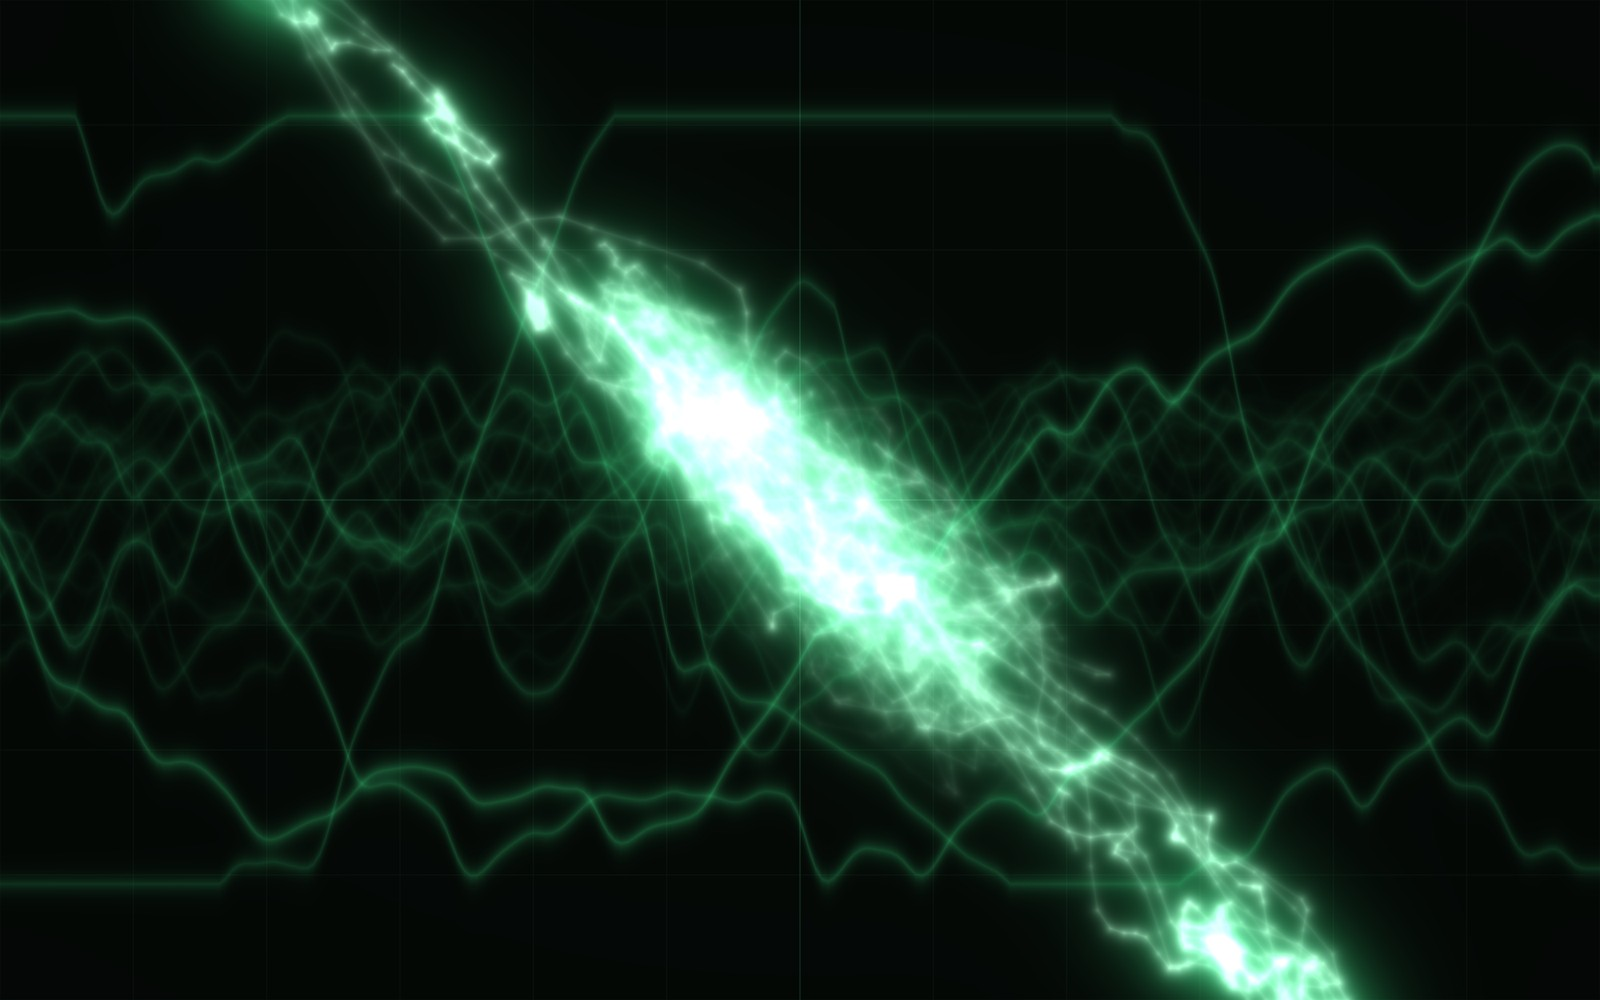
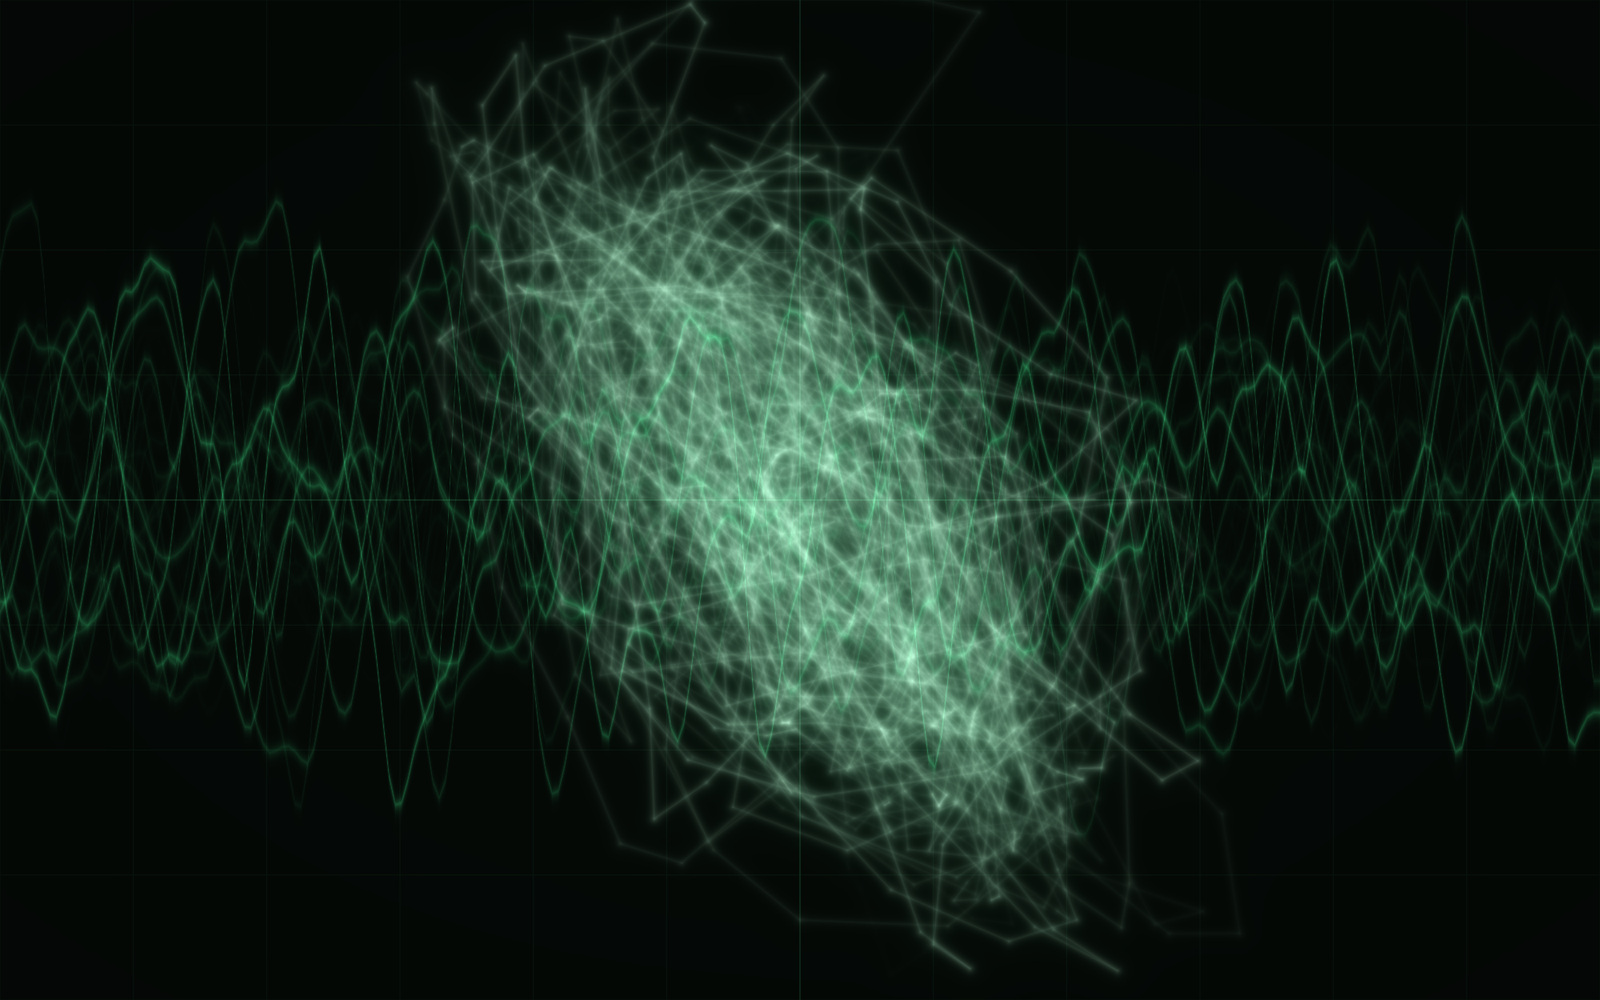
Sharpen Phosphor Scope & Liquid Warp Metal shaders; promote Menu Bar hero shot in README

diff --git a/README.md b/README.md
@@ -7,7 +7,7 @@ Named after **Erik Satie**, who invented *musique d'ameublement* ("furniture mus
 **Website & live preview:** [strangechances.com/satie](https://strangechances.com/satie/)
 
 <p align="center">
-  <img src="docs/vis-circuit.jpg" alt="Satie — 01 The Circuit (120Hz Metal + Retina Schematic)" width="100%">
+  <img src="docs/hero-menubar.jpg" alt="Satie — Native macOS Menu Bar Floating Panel" width="100%">
 </p>
 
 ## Install
@@ -35,10 +35,6 @@ Every mode runs 100% offline at **48 kHz stereo** on a lock-free, zero-allocatio
 | **STILL** | **Still** | Zero-melody suspended ambient pad and warm filtered noise cocoon designed for reading, writing, and long uninterrupted sessions. |
 
 Inside the single **Options** drawer (`≡`), you can set a fade-out **Timer** (`∞ · 15m · 25m · 45m · 60m · 90m`) or layer gentle **Rain** or **Brown Noise** underneath any soundscape.
-
-<p align="center">
-  <img src="docs/popover.png" alt="Satie Menu Bar Floating Panel" width="380">
-</p>
 
 ---
 
